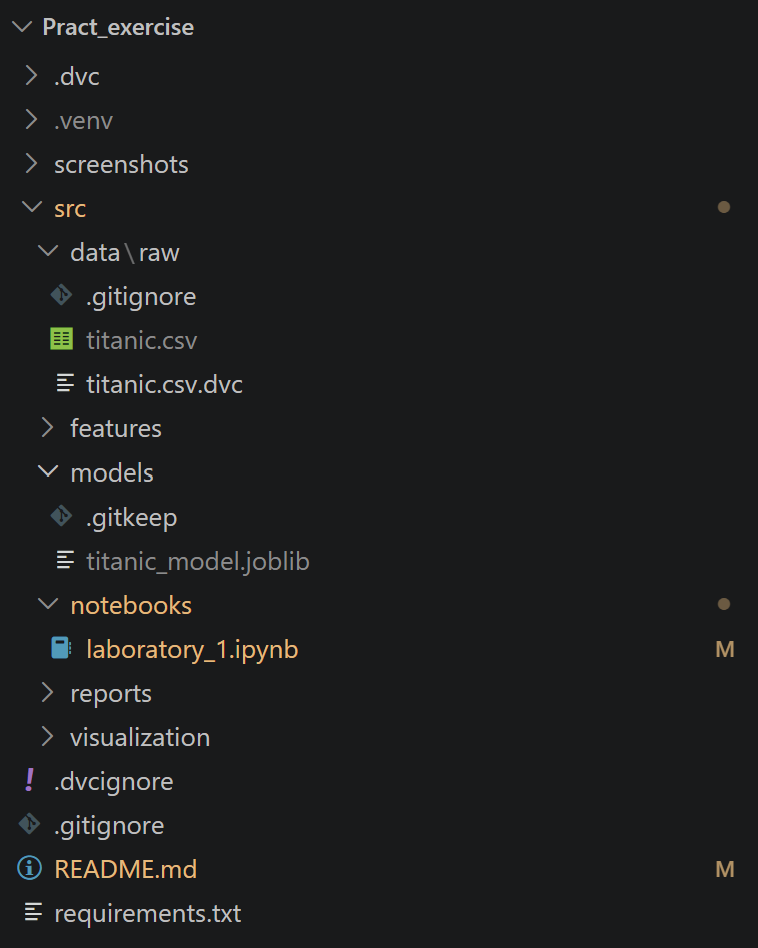
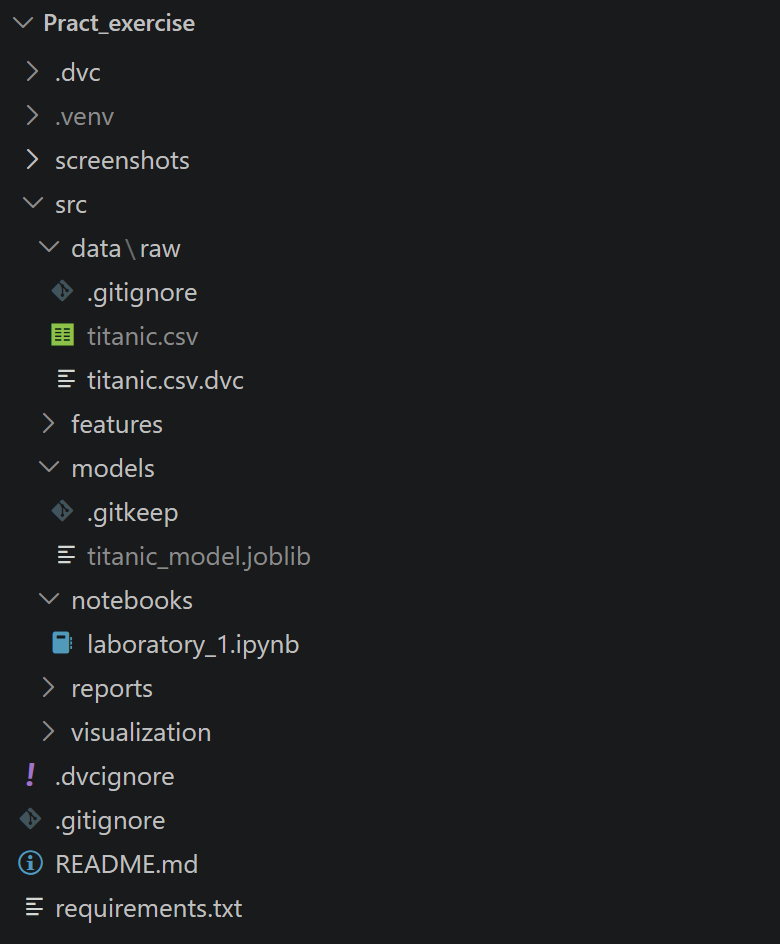
lab1: final fixes in README.md

diff --git a/README.md b/README.md
@@ -37,14 +37,10 @@ jupyter lab src/notebooks/laboratory_1.ipynb
 выводятся метрики **Accuracy** и **ROC-AUC**.
 
 ## Метрики (тестовая выборка, 80/20, random_state=42)
-- **Accuracy: 0.8212**
-- **ROC-AUC: 0.8555**
+
+![метрики](screenshots\metrics.png)
 
 ## DVC
 Датасет `src/data/raw/titanic.csv` добавлен под контроль версий DVC:
-```bash
-dvc add src/data/raw/titanic.csv
-git add src/data/raw/titanic.csv.dvc src/data/raw/.gitignore
-git commit -m "lab1: track titanic.csv with DVC"
-dvc status   # Data and pipelines are up to date
-```
+
+![dvc status](screenshots\dvc_status.png)
